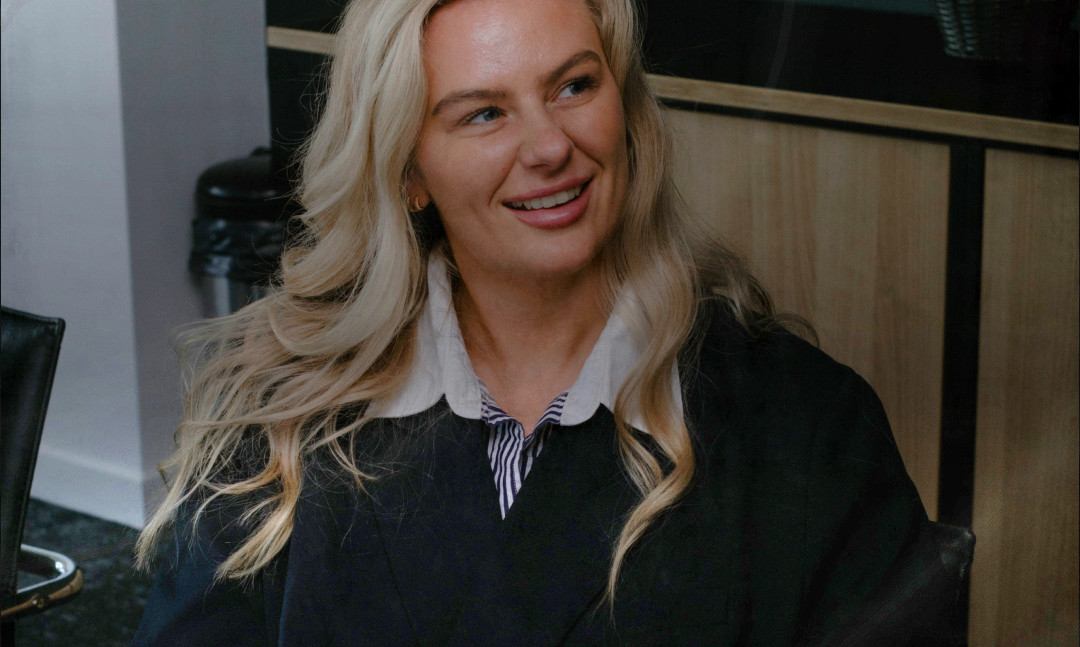
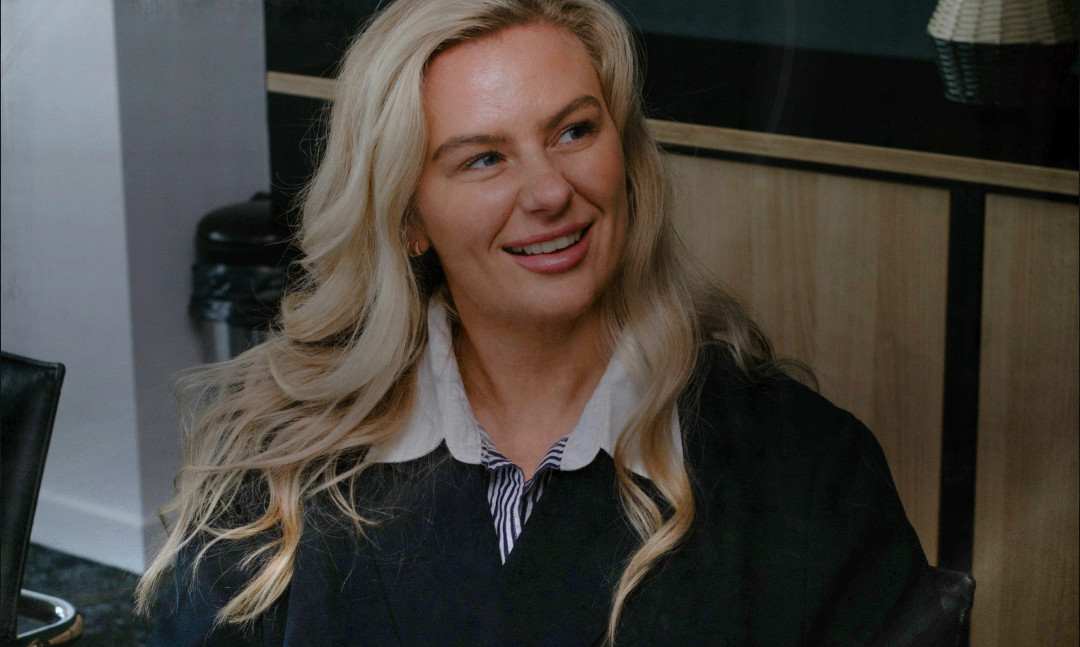
Reframe the flagged photographs and drop bg-25
Adds a per-photo framing table to the lift script. A negative number moves
the crop window up the source, so the subject sits lower in the advert.

The range is not symmetrical. The old advert's "New Vacancy" pill sat at
y 89-174 and its "i" icon at y 989-1069, so the window can run from 175 to
985 — 45px of room upwards against the standard crop, 122px down.
Measured across all 35 adverts, the pill's fill is all but opaque: what is
behind it only moves the pixel by about a quarter of its value, so the
photograph under it cannot be recovered.

Where that corner is plain texture, a photo can go further by patching over
the pill with a mirror of the band directly below. bg-09 uses it to reach
-140; it is not safe anywhere the corner holds a face or a straight edge.

bg-25 is withdrawn from the rotation, here and in BACKGROUNDS.

Claude-Session: https://claude.ai/code/session_016EB4dMayfiNqVN3gnfgXtW

diff --git a/lib/config.js b/lib/config.js
@@ -45,7 +45,7 @@ export const BACKGROUNDS = [
   "bg-07.jpg","bg-08.jpg","bg-09.jpg","bg-10.jpg","bg-11.jpg","bg-12.jpg",
   "bg-13.jpg","bg-14.jpg","bg-15.jpg","bg-16.jpg","bg-17.jpg","bg-18.jpg",
   "bg-19.jpg","bg-20.jpg","bg-21.jpg","bg-22.jpg","bg-23.jpg","bg-24.jpg",
-  "bg-25.jpg","bg-26.jpg","bg-27.jpg","bg-28.jpg","bg-29.jpg","bg-30.jpg",
+  "bg-26.jpg","bg-27.jpg","bg-28.jpg","bg-29.jpg","bg-30.jpg",
   "bg-31.jpg",
   // Added 2 October 2026
   "bg-32.jpg","bg-33.jpg","bg-34.jpg","bg-35.jpg",

diff --git a/scripts/lift-photos.py b/scripts/lift-photos.py
@@ -18,6 +18,37 @@ TOP, BOT = 220, 867     # the band between the old pill and the old logo
 TARGET = 86.0           # brightness the brand frames sit at, un-overlaid
 BLUR = 18               # separates the thin line-art from the photography
 
+# ---- How far each picture can be shifted ----------------------------------
+# The old advert's "New Vacancy" pill sat at y 89-174 and its "i" icon at
+# y 989-1069. The pill's fill is all but opaque — the photograph behind it is
+# not recoverable — so the window can never start above y=175, and must end
+# before y=989. Against the standard 220-867 window that leaves 45px of room
+# upwards and 122px downwards.
+CLEAN_TOP, CLEAN_BOT = 175, 985
+
+# Per-photo framing, in pixels. NEGATIVE moves the window up the source, which
+# makes the subject sit LOWER in the advert ("move the picture down"); POSITIVE
+# does the reverse. Out-of-range values are clamped, and the run reports it.
+OFFSETS = {
+    # move the picture down — more room above the head
+    "bg-04": -45, "bg-05": -45, "bg-09": -140, "bg-10": -45,
+    "bg-15": -45, "bg-16": -45, "bg-28": -45,
+    # move the picture up
+    "bg-11": 90, "bg-17": 90, "bg-19": 90, "bg-20": 90, "bg-22": 90,
+    "bg-23": 90, "bg-29": 90, "bg-32": 90, "exec-02": 90, "exec-08": 90,
+}
+
+# Photos withdrawn from the rotation. Also remove the filename from
+# BACKGROUNDS (or the division's pool) in lib/config.js.
+DROP = {"bg-25"}
+
+# Photos allowed to shift further up than CLEAN_TOP by patching over where the
+# pill was with a mirror of the band directly below it. Only safe where that
+# corner is texture — foliage, a blurred wall — and never where it holds a face,
+# a straight edge or lettering: check the result before adding a name here.
+PILL_BOX = (80, 78, 384, 186)
+PILL_FILL = {"bg-09"}
+
 os.makedirs(DST, exist_ok=True)
 
 
@@ -36,15 +67,47 @@ def common_overlay(paths):
     return np.median(np.stack([highpass(p) for p in paths]), axis=0)
 
 
-def process(path, overlay):
+def window_for(name):
+    """The source rows this photo is cropped from, and whether it was clamped."""
+    want = OFFSETS.get(name, 0)
+    low = (0 if name in PILL_FILL else CLEAN_TOP) - TOP
+    high = CLEAN_BOT - (BOT - TOP) - TOP
+    got = max(low, min(high, want))
+    return TOP + got, BOT + got, got, (got != want)
+
+
+def patch_pill(a):
+    """Cover the old pill with a mirror of the band immediately below it.
+
+    The pill's fill is all but opaque — measured across the 35 adverts, what is
+    behind it only moves the pixel by a quarter of its value — so there is no
+    photograph to recover, only somewhere plausible to borrow from.
+    """
+    x0, y0, x1, y1 = PILL_BOX
+    h = y1 - y0
+    donor = a[y1:y1 + h, x0:x1, :][::-1]
+    mask = np.zeros((h, x1 - x0), np.float32)
+    mask[8:-8, 8:-8] = 1.0
+    mask = np.asarray(
+        Image.fromarray((mask * 255).astype(np.uint8)).filter(ImageFilter.GaussianBlur(7)),
+        np.float32) / 255.0
+    a[y0:y1, x0:x1, :] = (a[y0:y1, x0:x1, :] * (1 - mask[:, :, None])
+                          + donor * mask[:, :, None])
+    return a
+
+
+def process(path, overlay, name):
     im = Image.open(path).convert("RGB")
     a = np.asarray(im, dtype=np.float32)
 
     # 1. Subtract the shared line-art, on every channel since it is neutral.
     a -= overlay[:, :, None]
 
-    # 2. Keep only the band that is photograph.
-    a = a[TOP:BOT, :, :]
+    # 2. Keep only the band that is photograph, shifted by this photo's framing.
+    top, bot, _, _ = window_for(name)
+    if name in PILL_FILL and top < CLEAN_TOP:
+        a = patch_pill(a)
+    a = a[top:bot, :, :]
 
     # 3. Flatten the vertical gradient the old overlay left behind, damped so
     #    a genuinely dark scene is not forced to match a bright one.
@@ -74,6 +137,16 @@ for prefix in ("bg-", "exec-"):
     overlay = common_overlay(paths)
     print("%-6s %2d images, line-art range %.1f..%.1f" % (prefix, len(paths), overlay.min(), overlay.max()))
     for p in paths:
-        process(p, overlay).save(os.path.join(DST, os.path.basename(p)), quality=90, subsampling=0)
+        name = os.path.basename(p)[:-4]
+        out = os.path.join(DST, name + ".jpg")
+        if name in DROP:
+            if os.path.exists(out):
+                os.remove(out)
+            print("       %s dropped" % name)
+            continue
+        _, _, got, clamped = window_for(name)
+        if got:
+            print("       %s shifted %+d%s" % (name, got, " (clamped)" if clamped else ""))
+        process(p, overlay, name).save(out, quality=90, subsampling=0)
         total += 1
 print("wrote %d photographs to public/photos" % total)
